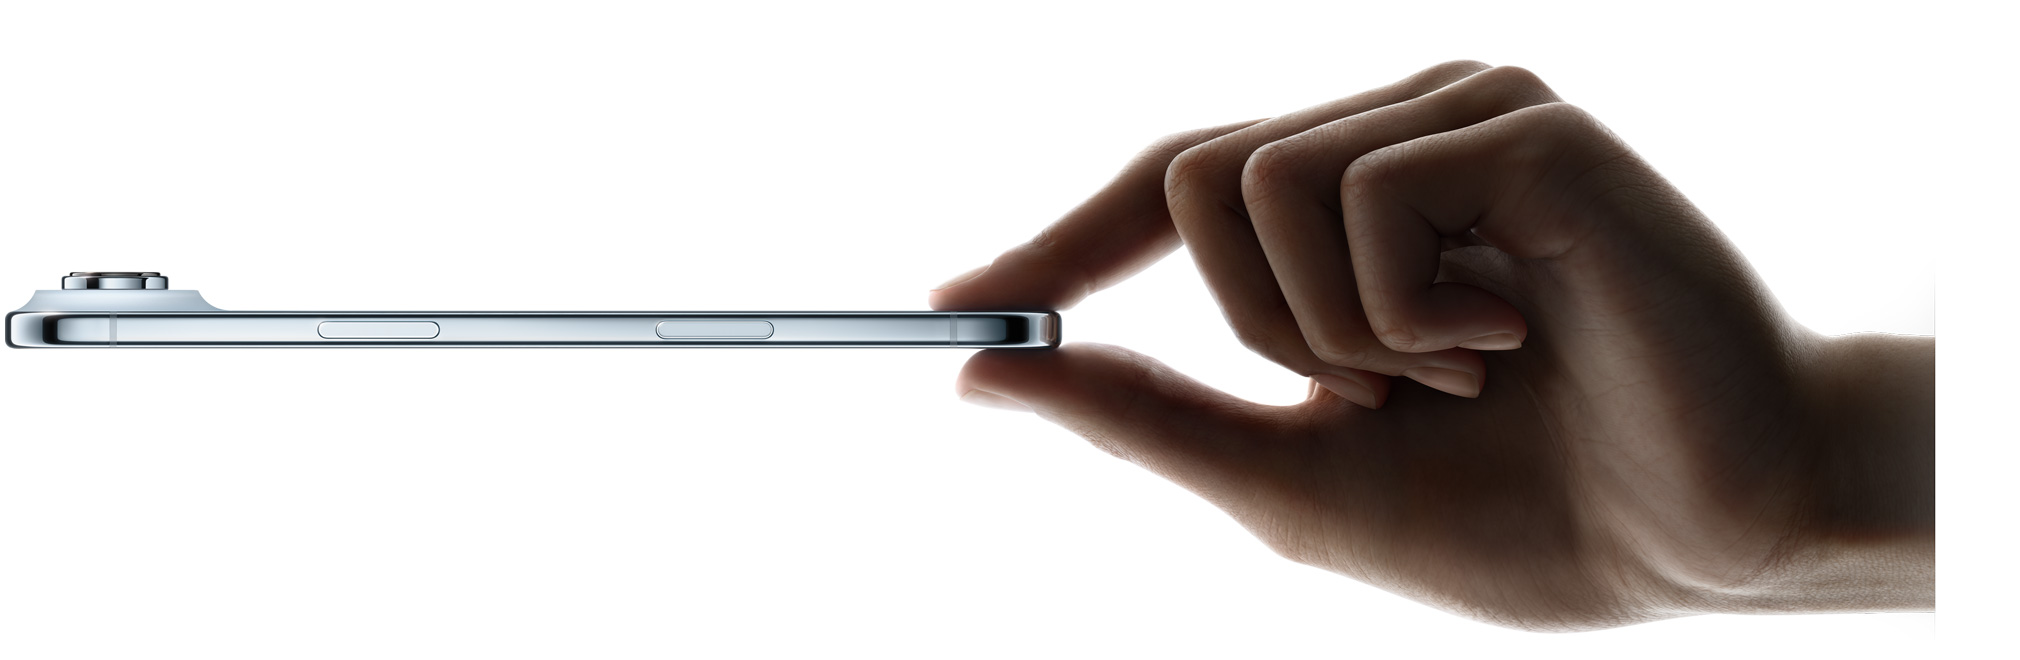
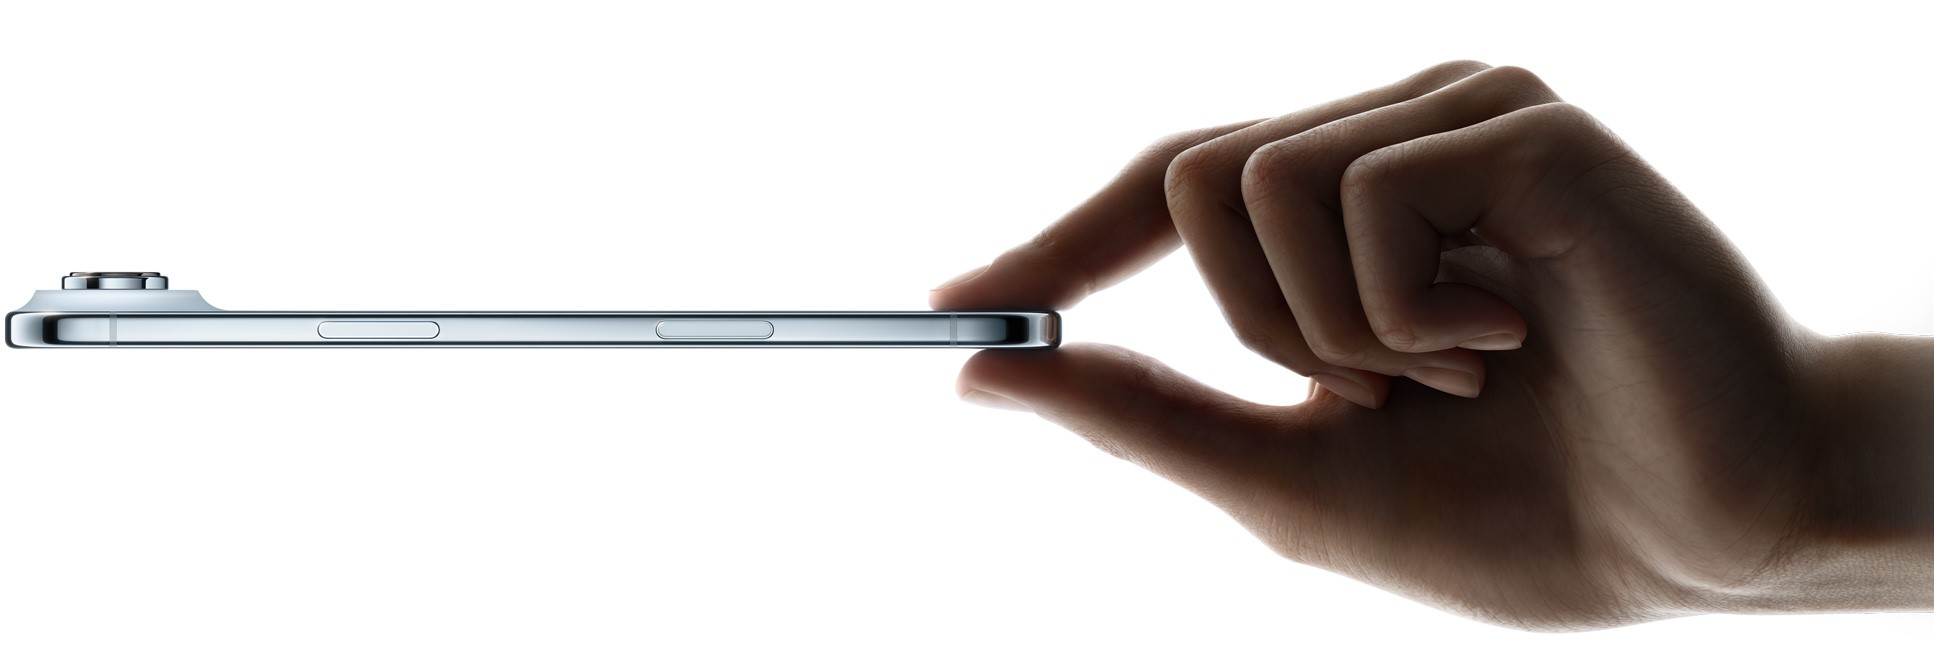
iPhone Air Responsiveness

diff --git a/index.html b/index.html
@@ -12,24 +12,22 @@
   <link rel="stylesheet" href="assets/style.css">
 </head>
 
-<body style="overflow-x: hidden; font-family: 'Poppins', sans-serif;">
+<nav class="navbar navbar-expand-lg bg-white shadow-sm sticky-top">
+  <div class="container-fluid d-flex justify-content-between align-items-center py-2">
+    <a class="navbar-brand ps-4 fw-bold text-dark" href="#">iPhone Air</a>
+    <a href="https://www.apple.com/ph/iphone-air/" target="_blank" class="btn btn-dark rounded-pill px-4 me-4">BUY
+      NOW</a>
+  </div>
+</nav>
 
-  <!-- Navbar -->
-  <nav class="navbar navbar-expand-lg bg-white shadow-sm sticky-top">
-    <div class="container-fluid d-flex justify-content-between align-items-center py-2">
-      <a class="navbar-brand ps-4 fw-bold text-dark" href="#">iPhone Air</a>
-      <a href="https://www.apple.com/ph/iphone-air/" target="_blank" class="btn btn-dark rounded-pill px-4 me-4">BUY
-        NOW</a>
-    </div>
-  </nav>
+<header class="hero-section text-center py-5">
+  <h1 class="fw-bold display-5 mb-3">Breathtaking Power. Featherweight Design.</h1>
+  <p class="text-secondary mb-4">
+    Introducing the new iPhone Air — thinner, lighter, and faster than ever.
+  </p>
+  <img src="assets/feature1.jpg" alt="iPhone Air Main" class="hero-img">
 
-  <!-- Hero Section -->
-  <header class="text-center hero-section">
-    <div class="container py-5">
-      <h1 class="fw-bold display-5 mb-3">Breathtaking Power. Featherweight Design.</h1>
-      <p class="text-secondary mb-4">Introducing the new iPhone Air — thinner, lighter, and faster than ever.</p>
-      <img src="assets/feature1.jpg" alt="iPhone Air Main">
-    </div>
+  <div class="hero-text mt-4 px-3">
     <p>
       The iPhone Air lives up to its name. At just <strong>5.6 mm</strong>,
       it's the <strong>thinnest iPhone ever made</strong>, and at <strong>165 grams</strong>, it's among the lightest
@@ -40,135 +38,129 @@
       <strong>Ceramic Shield 2</strong> on both the front and back for durability. The result is a phone that feels
       feather-light in your hand but still tough enough for daily life in Nairobi.
     </p>
-    <p>This design is classic “Air”: slim, minimal, premium.
-    </p>
-  </header>
+    <p>This design is classic “Air”: slim, minimal, premium.</p>
+  </div>
+</header>
 
-  <!-- A19 Chip -->
-  <section class="container py-5 text-center" id="power">
-    <h2 class="fw-semibold mb-3">Power That Matches the Pros</h2>
-    <div class="text-center mb-4">
-      <img src="assets/feature2.jpg" alt="A19 Pro Chip" class="img-fluid rounded-3">
+<section class="container py-5 text-center" id="power">
+  <h2 class="fw-semibold mb-3">Power That Matches the Pros</h2>
+  <div class="text-center mb-4">
+    <img src="assets/feature2.jpg" alt="A19 Pro Chip" class="img-fluid rounded-3">
+  </div>
+  <p>
+    Don't let the size fool you — the iPhone Air runs on the same <strong>A19 Pro chip</strong>
+    found in the iPhone 17 Pro models. Whether you're gaming, multitasking, or using Apple's
+    latest AI features, the Air keeps up effortlessly.
+  </p>
+  <p>
+    Its <strong>6.5-inch Super Retina XDR OLED display</strong> supports
+    <strong>ProMotion 120 Hz refresh rates</strong> and peaks at <strong>3,000 nits brightness</strong>.
+    From office use to outdoor adventures, the iPhone Air stays bright and smooth.
+  </p>
+</section>
+
+<section class="container py-5" id="camera">
+  <div class="row align-items-center">
+    <div class="col-md-6 mb-4 mb-md-0">
+      <h2 class="fw-semibold mb-3">Simplified Yet Smart Cameras</h2>
+      <p>
+        The Air doesn't carry the triple-lens setup of the Pro series, but it doesn't need to.
+        Instead, it comes with:
+      </p>
+      <ul>
+        <li><strong>48 MP Fusion main camera</strong> with advanced stabilization.</li>
+        <li><strong>2x optical-quality zoom</strong> achieved through sensor cropping.</li>
+        <li><strong>18 MP Center Stage front camera</strong>, perfect for video calls and selfies.</li>
+      </ul>
+      <p>
+        It's designed for everyday creators, social-media lovers, and casual photographers who want quality without
+        complexity.
+      </p>
     </div>
-    <p>
-      Don't let the size fool you — the iPhone Air runs on the same <strong>A19 Pro chip</strong>
-      found in the iPhone 17 Pro models. Whether you're gaming, multitasking, or using Apple's
-      latest AI features, the Air keeps up effortlessly.
-    </p>
-    <p>
-      Its <strong>6.5-inch Super Retina XDR OLED display</strong> supports
-      <strong>ProMotion 120 Hz refresh rates</strong> and peaks at <strong>3,000 nits brightness</strong>.
-      From office use to outdoor adventures, the iPhone Air stays bright and smooth.
-    </p>
-  </section>
-
-  <section class="container py-5" id="camera">
-    <div class="row align-items-center">
-      <div class="col-md-6 mb-4 mb-md-0">
-        <h2 class="fw-semibold mb-3">Simplified Yet Smart Cameras</h2>
-        <p>
-          The Air doesn't carry the triple-lens setup of the Pro series, but it doesn't need to.
-          Instead, it comes with:
-        </p>
-        <ul>
-          <li><strong>48 MP Fusion main camera</strong> with advanced stabilization.</li>
-          <li><strong>2x optical-quality zoom</strong> achieved through sensor cropping.</li>
-          <li><strong>18 MP Center Stage front camera</strong>, perfect for video calls and selfies.</li>
-        </ul>
-        <p>
-          It's designed for everyday creators, social-media lovers, and casual photographers who want quality without
-          complexity.
-        </p>
-      </div>
-      <div class="col-md-6 text-center">
-        <img src="assets/feature3.jpg" alt="iPhone Air Camera" class="img-fluid rounded-3 shadow-sm">
-      </div>
+    <div class="col-md-6 text-center">
+      <img src="assets/feature3.jpg" alt="iPhone Air Camera" class="img-fluid rounded-3 shadow-sm">
     </div>
-  </section>
+  </div>
+</section>
 
-  <!-- Battery -->
-  <section class="container py-5" id="battery">
-    <div class="row align-items-center">
-      <div class="col-lg-6 mb-4 mb-lg-0 text-center">
-        <img src="assets/feature4.jpg" alt="Battery Pack" class="img-fluid rounded-3">
-      </div>
-      <div class="col-lg-6">
-        <h2 class="fw-semibold mb-3">Battery & The Exclusive Air Battery Pack</h2>
-        <p>
-          Being the thinnest iPhone has one trade-off: there isn't space for a massive battery.
-          Apple promises <strong>all-day battery life</strong>, but to go further, they've introduced
-          a <strong>new magnetic Air Battery Pack accessory</strong>.
-        </p>
-        <p class="mt-3">
-          This lightweight snap-on pack adds extra hours of use without compromising the Air’s slim profile.
-          It's a clever move that makes the Air more flexible for busy days or long travels.
-        </p>
-      </div>
+<section class="container py-5" id="battery">
+  <div class="row align-items-center">
+    <div class="col-lg-6 mb-4 mb-lg-0 text-center">
+      <img src="assets/feature4.jpg" alt="Battery Pack" class="img-fluid rounded-3">
     </div>
-  </section>
-
-  <!-- Colors -->
-  <section class="container py-5" id="storage">
-    <div class="row align-items-center">
-      <div class="col-lg-6 mb-4 mb-lg-0">
-        <h2 class="fw-semibold mb-3">Storage & Colors</h2>
-        <p>The iPhone Air comes in generous storage options:</p>
-        <ul>
-          <li>256 GB</li>
-          <li>512 GB</li>
-          <li>1 TB</li>
-        </ul>
-        <p class="mt-4">And for colors, Apple is keeping things elegant but fresh:</p>
-        <ul>
-          <li><strong>Space Black</strong></li>
-          <li><strong>Cloud White</strong></li>
-          <li><strong>Light Gold</strong></li>
-          <li><strong>Sky Blue</strong></li>
-        </ul>
-      </div>
-      <div class="col-lg-6 text-center">
-        <img src="assets/feature5.jpg" alt="iPhone Air Colors" class="img-fluid rounded-3">
-      </div>
+    <div class="col-lg-6">
+      <h2 class="fw-semibold mb-3">Battery & The Exclusive Air Battery Pack</h2>
+      <p>
+        Being the thinnest iPhone has one trade-off: there isn't space for a massive battery.
+        Apple promises <strong>all-day battery life</strong>, but to go further, they've introduced
+        a <strong>new magnetic Air Battery Pack accessory</strong>.
+      </p>
+      <p class="mt-3">
+        This lightweight snap-on pack adds extra hours of use without compromising the Air’s slim profile.
+        It's a clever move that makes the Air more flexible for busy days or long travels.
+      </p>
     </div>
-  </section>
+  </div>
+</section>
 
-  <!-- Key Features -->
-  <section class="container text-center py-5" id="features">
-    <h2 class="fw-bold mb-5">Key Features</h2>
-    <div class="row g-4 justify-content-center">
-      <div class="col-10 col-md-5 col-lg-3 feature-card">
-        <i class="bi bi-feather feature-icon"></i>
-        <h5>Ultra Light Design</h5>
-        <p>Crafted from titanium frame for strength, paired with Ceramic Shield 2 — just 165g light and 5.6mm thin.</p>
-      </div>
-      <div class="col-10 col-md-5 col-lg-3 feature-card">
-        <i class="bi bi-cpu feature-icon"></i>
-        <h5>A19 Pro chip and C1X modem</h5>
-        <p>Blazing performance with intelligent efficiency for work and play.</p>
-      </div>
-      <div class="col-10 col-md-5 col-lg-3 feature-card">
-        <i class="bi bi-camera feature-icon"></i>
-        <h5>Advanced Camera</h5>
-        <p>Capture life in true-to-color HDR with cinematic detail and clarity.</p>
-      </div>
-      <div class="col-10 col-md-5 col-lg-3 feature-card">
-        <i class="bi bi-battery-full feature-icon"></i>
-        <h5>All-Day Battery Life</h5>
-        <p>Long-lasting battery for video, calls, and apps — all in one charge.</p>
-      </div>
+<section class="container py-5" id="storage">
+  <div class="row align-items-center">
+    <div class="col-lg-6 mb-4 mb-lg-0">
+      <h2 class="fw-semibold mb-3">Storage & Colors</h2>
+      <p>The iPhone Air comes in generous storage options:</p>
+      <ul>
+        <li>256 GB</li>
+        <li>512 GB</li>
+        <li>1 TB</li>
+      </ul>
+      <p class="mt-4">And for colors, Apple is keeping things elegant but fresh:</p>
+      <ul>
+        <li><strong>Space Black</strong></li>
+        <li><strong>Cloud White</strong></li>
+        <li><strong>Light Gold</strong></li>
+        <li><strong>Sky Blue</strong></li>
+      </ul>
     </div>
-  </section>
+    <div class="col-lg-6 text-center">
+      <img src="assets/feature5.jpg" alt="iPhone Air Colors" class="img-fluid rounded-3">
+    </div>
+  </div>
+</section>
 
-  <!-- Footer -->
-  <footer class="text-center text-secondary py-4 mt-5 border-top">
-    <p class="mb-0 small">
-      &copy; 2025 iPhone Air Project.
-      All rights belong to Apple Inc. | For educational purposes only.
-    </p>
-  </footer>
+<section class="container text-center py-5" id="features">
+  <h2 class="fw-bold mb-5">Key Features</h2>
+  <div class="row g-4 justify-content-center">
+    <div class="col-10 col-md-5 col-lg-3 feature-card">
+      <i class="bi bi-feather feature-icon"></i>
+      <h5>Ultra Light Design</h5>
+      <p>Crafted from titanium frame for strength, paired with Ceramic Shield 2 — just 165g light and 5.6mm thin.</p>
+    </div>
+    <div class="col-10 col-md-5 col-lg-3 feature-card">
+      <i class="bi bi-cpu feature-icon"></i>
+      <h5>A19 Pro chip and C1X modem</h5>
+      <p>Blazing performance with intelligent efficiency for work and play.</p>
+    </div>
+    <div class="col-10 col-md-5 col-lg-3 feature-card">
+      <i class="bi bi-camera feature-icon"></i>
+      <h5>Advanced Camera</h5>
+      <p>Capture life in true-to-color HDR with cinematic detail and clarity.</p>
+    </div>
+    <div class="col-10 col-md-5 col-lg-3 feature-card">
+      <i class="bi bi-battery-full feature-icon"></i>
+      <h5>All-Day Battery Life</h5>
+      <p>Long-lasting battery for video, calls, and apps — all in one charge.</p>
+    </div>
+  </div>
+</section>
 
-  <!-- Bootstrap JS -->
-  <script src="https://cdn.jsdelivr.net/npm/bootstrap@5.3.2/dist/js/bootstrap.bundle.min.js"></script>
+<footer class="text-center text-secondary py-4 mt-5 border-top">
+  <p class="mb-0 small">
+    &copy; 2025 iPhone Air Project.
+    All rights belong to Apple Inc. | For educational purposes only.
+  </p>
+</footer>
+
+<script src="https://cdn.jsdelivr.net/npm/bootstrap@5.3.2/dist/js/bootstrap.bundle.min.js"></script>
 </body>
 
 </html>

diff --git a/assets/style.css b/assets/style.css
@@ -1,4 +1,6 @@
 body {
+  overflow-x: hidden;
+  font-family: 'Poppins', sans-serif;
   background-color: #fff;
   color: #000;
 }
@@ -17,7 +19,22 @@ section {
   border-bottom: 1px solid #eee;
 }
 
-/* === Key Features === */
+.hero-section {
+  width: 100%;
+  text-align: center;
+}
+
+.hero-section .hero-img {
+  width: 100%;
+  height: auto;
+  display: block;
+}
+
+.hero-section .hero-text {
+  max-width: 1300px;
+  margin: 0 auto;
+}
+
 .feature-card {
   background: #f8f9fa;
   border-radius: 20px;
